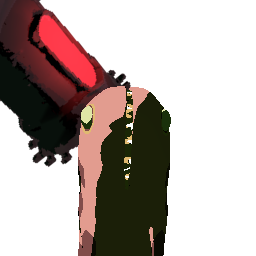
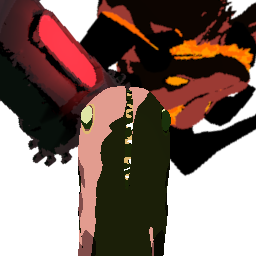
Thunderstore update.

Changed region(s): [[0.3125, 0.0, 1.0, 0.6875]]

diff --git a/Thunderstore/README.md b/Thunderstore/README.md
@@ -35,6 +35,12 @@ This mod adds enemies and bosses from Risk of Rain Returns.
 		<td>The one and only.</td>
 		<td>Sky Meadow, Titanic Plains, Abandoned Aqueduct, Siphoned Forest, Rallypoint Delta, Abyssal Depths, Bob-omb Battlefield, Fogbound Lagoon</td>
 	</tr>
+	<tr>
+		<td><img src="https://raw.githubusercontent.com/viliger2/RoR2_EnemiesReturns/refs/heads/main/EnemiesReturnsUnity/Assets/Enemies/Ifrit/texIconIfritBody.png" alt="Ifrit"></td>
+		<td>Ifrit</td>
+		<td>Fiery spawn of Hell. He will burn you with every attack.</td>
+		<td>Abyssal Depths, Siphoned Forest, Rallypoint Delta, Helminth Hatchery, Catacombs</td>
+	</tr>	
 </table>
 
 ## Credits
@@ -61,9 +67,21 @@ This mod adds enemies and bosses from Risk of Rain Returns.
 * Laser charge sound - https://pixabay.com/sound-effects/charged-laser-7125/
 * Woosh sound - https://pixabay.com/sound-effects/long-whoosh-194554/
 </details>
+<details>
+<summary>Ifrit</summary>
+
+* Model by Jinazler
+* Rigging and animation by Sentinel 
+* Code by [viliger](https://thunderstore.io/package/viliger/)
+* Item pickup model and texture, pillar model, texture and animations by [FORCED_REASSEMBLY](https://thunderstore.io/package/Forced_Reassembly/)
+* Majority of sounds come from RoR, RoRR and WoW
+* Super natural explosion - https://pixabay.com/sound-effects/supernatural-explosion-104295/
+* Monster breathing - https://pixabay.com/sound-effects/animal-breathing-monster-78392/
+</details>
 - Special thanks to 
 
 * [Moffein](https://thunderstore.io/package/Moffein/) for balance and design help
+* [rob](https://thunderstore.io/package/rob_gaming/) - the fun guy
 * /vm/ for telling me to fix my (viliger's) shit.
 * Translations:
 	* pt-BR by [Kauzok](https://github.com/Kauzok)

diff --git a/Thunderstore/CHANGELOG.md b/Thunderstore/CHANGELOG.md
@@ -1,4 +1,16 @@
 <details>
+<summary>0.2.3</summary>
+
+* Added new Champion-tier (or boss) monster: Ifrit.
+* Restored DirectorAPI dependency and added DeployableAPI dependency.
+	* _DirectorAPI dependency restores enemy spawns on custom stages. It wasn't working since SoTS._
+* Fixed potential issue with boss drops in other mods due to code-created ScriptableObjects not having names.
+* Added option to disable each instance of content separately.
+	* _This means you can have boss items without bosses and vice versa. But obviously if you have boss item without a boss that means it can only spawn either via printers or Artifact of Command._
+* Colossus:
+	* Fixed Laser Barrage explosion damage being scaled of Laser Barrage Explosion radius config instead of correct config.
+</details>
+<details>
 <summary>0.1.13</summary>
 
 * Fixed Colossus not spawning outside of family events.
@@ -15,7 +27,7 @@
 <details>
 <summary>0.1.11 (Dawn of the Final Day, 24 Hours Remain)  </summary>
 
-* Added Colossus to Fogbound Laggon.
+* Added Colossus to Fogbound Lagoon.
 * Some general polish.
 </details>
 <details>
@@ -75,7 +87,7 @@
 	* Fixed Spitter not being stunnable, frozable, etc.
 	* Adjusted sounds' volume and attenuation to roughly match vanilla.
 	* Made projectile and DoT zone decal more orange-ish.
-	* Slight adjustments to elite colors so hopefully Overloading and Glacial are easier to differenciate.
+	* Slight adjustments to elite colors so hopefully Overloading and Glacial are easier to differentiate.
 	* Added monster to Void Cells, Abyssal Depths (Simulacrum) and Bulwark's Ambry.
 </details>
 
